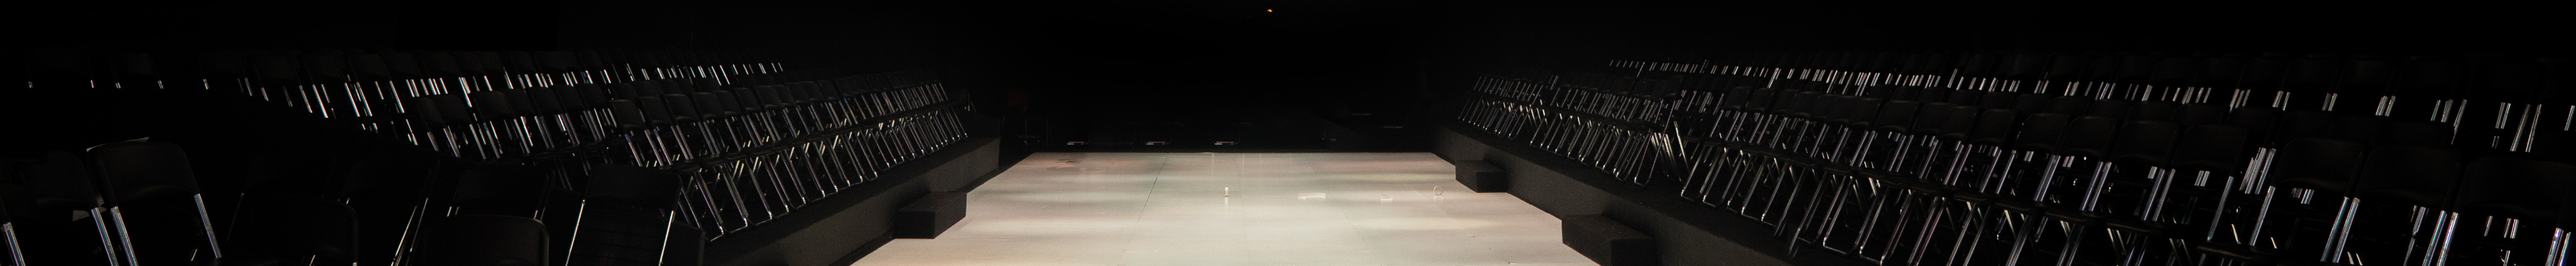
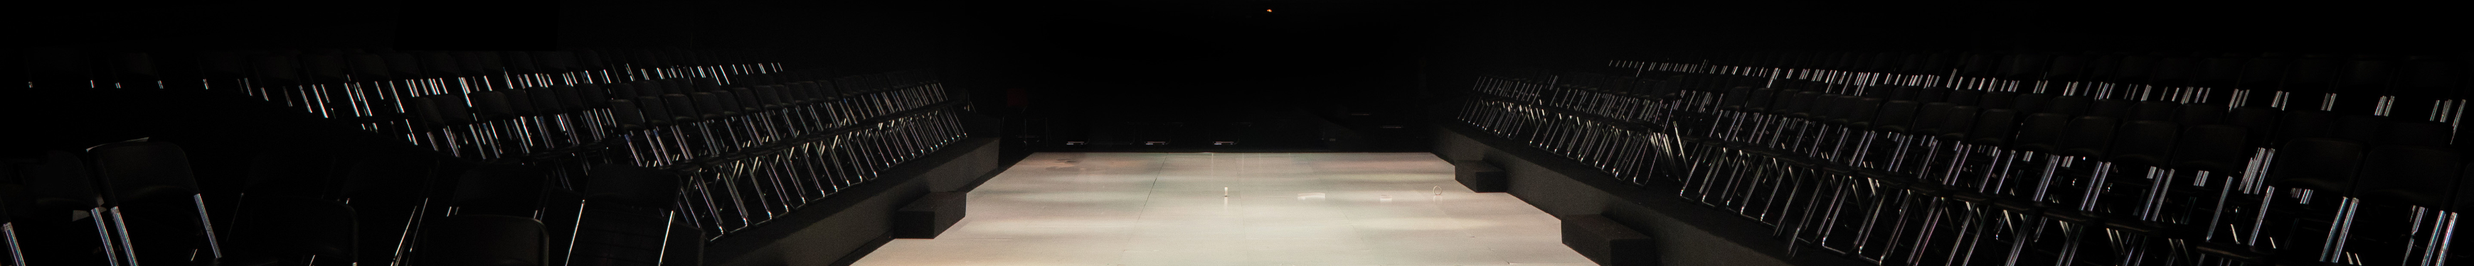
Update feedback emma

diff --git a/index.html b/index.html
@@ -31,7 +31,7 @@
   <div class="home">
     <header class="header">
       <div class="navbar">
-        <div class="logo"><a href="#"><img src="assets/image/logo/logoDoorzichtichtig.png" alt="logo"
+        <div class="logo"><a href="#"><img src="assets/image/logo/logowit.png" alt="logo"
               class="logoimg"></a></div>
 
         <ul class="navContent">
@@ -82,7 +82,7 @@
     <!-- Our services -->
     <div class="service">
       <div class="serviceHeading">
-        <h2>Our Services</h2>
+        <h2>OUR SERVICES</h2>
         <h3>From event concepts to interactive experiences, we've got you covered!</h3>
       </div>
 
@@ -122,75 +122,13 @@
         </div>
       </div>
     </div>
+
     <!-- Testimonials -->
-    <!-- <div class="testimonial">
-      <div class="testimonialHeading">
-        <h2>ClIENTS WHO TRUST US</h2>
-      </div>
-      <div class="quote1">
-        <div class="quotation">
-          <div class="quotetekst">
-            <p> I have worked with both Angelique and Emma multiple times and can highly recommend them.
-              They are both extremely professional.
-              Planning even the most complicated event is perfectly orchestrated with a lot of attention to detail.
-              I like to raise the bar for my events every year and surprise the audience with new and different ways to
-              approach engagement and content delivery.
-              Thanks to the creativity of the Elique team, we have been able to do just that and delight attendees with
-              truly memorable and impactful experiences.
-              I am looking forward to working with them again in the future.</p>
-          </div>
-        </div>
-      </div>
+    <div class="testimonials">
+      <div class="divider"><hr></div>
 
-      <div class="quote2">
-        <div class="quotation">
-          <div class="quotetekst">
-            <p>Very strong strategic partner, very proactive and very well organised. <br />
-              We have multiplied by 5 the number of attendees since 2019 and they have been instrumental. <br />
-              Would recommend 100%.</p>
-          </div>
-        </div>
-      </div>
-
-      <div class="quote3">
-        <div class="quotation">
-          <div class="quotetekst">
-            <p>Full of energy, knowledge and passion for events.
-              Extremely reliable professional, will not rest until things get done.
-              incredible and a valuable asset for any team. </p>
-          </div>
-        </div>
-      </div>
-
-      <div class="quote4">
-        <div class="quotation">
-          <div class="quotetekst">
-            <p>What I appreciate most is the attention to detail, focus on attendee experience, and availability of the
-              team.
-              They take the time to understand the intended audience to bring creativity to each event, customizing it
-              for the audience.
-              They go above and beyond to ensure a positive experience for everyone!</p>
-          </div>
-        </div>
-      </div>
-
-      <div class="quote5">
-        <div class="quotation">
-          <div class="quotetekst">
-            <p>They were phenomenal!
-              From coordination end-to-end logistics to creating the best experience for attendees, they handled
-              everything seamlessly.
-              Their attention to detais and professionalism made the event a huge success.
-              I highly recommend them for any event!</p>
-          </div>
-        </div>
-      </div>
-    </div>			 -->
-
-    <div class="temp">
-      <div><h2>Testimonials</h2></div>
-      
-
+      <div class="testimonialsHeading"><h2>TESTIMONIALS</h2></div>
+    
       <div id="slider">
         <input type="radio" name="slider" id="slide1" checked>
         <input type="radio" name="slider" id="slide2">
@@ -278,10 +216,8 @@
       </div>
 
       <div class="contactUsHeading">
-        <h2>
-          Let's work together <br>
-          CONTACT US!
-        </h2>
+        <h3>Let's work together</h3>
+        <h2>CONTACT US!</h2>
       </div>
 
       <div class="contactUsContainer">
@@ -301,6 +237,26 @@
           </div>
         </div>
       </div>
+    </div>
+
+
+    <!--  -->
+    <div class="footerpage">
+      <div class="container">
+        <footer class="d-flex flex-wrap justify-content-between align-items-center py-3 my-4 border-top text-white">
+            <div class="col-md-4 d-flex align-items-center">
+                <a href="/" class="mb-3 me-2 mb-md-0 text-decoration-none lh-1 text-white">
+                    <svg class="bi" width="30" height="24"><use xlink:href="#bootstrap" class="text-white"></use></svg>
+                </a>
+                <span class="mb-3 mb-md-0">© 2024 Elique-Events</span>
+            </div>
+    
+            <ul class="nav col-md-4 justify-content-end list-unstyled d-flex">
+                <li class="ms-3 footericon"><i class="fa-brands fa-linkedin"></i></li>
+            </ul>
+        </footer>
+    </div>
+    
     </div>
   </main>
   

diff --git a/style.css b/style.css
@@ -4,7 +4,7 @@
     padding: 0;
     box-sizing: border-box;
     color: white;
-    font-family: 'Poppins', sans-serif;
+    font-family: 'Montserrat Classic', sans-serif;
     font-weight: 500;
 }
 
@@ -136,7 +136,8 @@ header {
 
 .homeContent h1{
     font-size: 4rem;
-    margin-bottom: 1rem;
+    margin-bottom: 3%;
+    font-weight: bold;
 }
 
 .homeContent h2{
@@ -180,6 +181,7 @@ header {
     font-size: 2rem;
     margin: 0;
     text-align: center;
+    font-weight: bold;
 }
 
 .experienceContainer{
@@ -227,7 +229,7 @@ header {
     justify-content: flex-start;
     align-items: center;
     height: auto;
-    min-height: 90vh;
+    min-height: 85vh;
     position: relative;
     background-image: url('assets/image/main/background-middle.png');
     background-size: cover;
@@ -259,6 +261,7 @@ header {
 
 .serviceHeading h2{
     font-size: 3rem;
+    font-weight: bold;
 }
 
 .serviceContainer {
@@ -312,84 +315,7 @@ header {
 }
 
 /* Testimonials */
-.testimonial {
-    height: 50vh;
-    background-color: #020302;
-    position: relative;
-}
-
-.testimonialHeading {
-    text-align: center;
-    position: absolute;
-    top: 15%; 
-    left: 5%; 
-}
-
-.testimonialHeading h2{
-    font-size: 2.5rem;
-}
-
-.quote1 {
-    position: absolute;
-    top: 40%;
-    left: 5%;
-}
-
-.quote1 .quotetekst{
-    width: 500px;
-}
-
-.quote2 {
-    position: absolute;
-    top: 5%;
-    left: 40%; 
-}
-
-.quote3 {
-    position: absolute;
-    top: 55%;
-    left: 45%; 
-}
-
-.quote4 {
-    position: absolute;
-    top: 55%;
-    left: 70%; 
-}
-
-.quote4 .quotetekst{
-    width: 350px;
-}
-
-.quote5 {
-    position: absolute;
-    top: 7%;
-    left: 67%; 
-}
-
-.quotation {
-    position: relative;
-    width: 150px;
-    height: 150px; 
-
-    background-image: url('assets/image/pagina4/quote.png');
-    background-size: cover;
-    background-position: top left; 
-}
-
-.quotetekst {
-    position: absolute;
-    width: 300px;
-    top: 32%;
-    left: 25%;
-    text-align: left;
-}
-
-.quotetekst p{
-    font-size: 0.8em;
-}
-
-.temp{
+.testimonials{
     height: 50vh;
 
     display: flex;
@@ -398,12 +324,31 @@ header {
     align-items: center;
 
     background-color: #020302;
-    gap 20px
+    gap: 20px;
 }
+
+.testimonialsHeading h2{
+    font-size: 3rem;
+    margin: 0;
+    text-align: center;
+    font-weight: bold;
+}
+
+.divider { 
+    text-align: center; 
+    width: 30%;
+  } 
+
+.divider hr { 
+    border: none; 
+    height: 1px; 
+    background-color: white; 
+    margin: 20px 0; 
+  } 
 
 #slider {
     margin: 0 auto;
-    width: 800px;
+    width: 65%;
     max-width: 100%;
     text-align: center;
  }
@@ -416,7 +361,6 @@ header {
  }
  #slides {
     padding: 10px;
-    /* border: 3px solid #ccc; */
     background: #020302;
     position: relative;
     z-index: 1;
@@ -535,8 +479,8 @@ header {
 }
 
 .aboutUsHeading h2{
-
     font-size: 3rem;
+    font-weight: bold;
 }
 
 .aboutUsBackground{
@@ -572,8 +516,13 @@ header {
     width: 100%;
 }
 
+.contactUsHeading h3{
+    text-align: center;
+    font-size: 2.5rem;
+    margin: 0;
+}
+
 .contactUsHeading h2{
-    padding-top: 2%;
     font-size: 3rem;
     text-align: center;
     font-weight: bold;
@@ -587,12 +536,12 @@ header {
     display: flex;
     justify-content: center;
     align-items: center;
-    gap: 20px;
+    gap: 10%;
 }
 
 .contactImage{
     height: 30vh;
-    width: 30vh;
+    width: 40vh;
 
     background-image: url('assets/image/pagina6/founders.png');
     background-position: center;
@@ -611,10 +560,6 @@ header {
     width: 80%;
 }
 
-.contactInfo div{
-    margin-bottom: 5%;
-}
-
 .contact h5{
     margin: 0;
 }
@@ -622,6 +567,20 @@ header {
 .contact p{
     margin: 0;
 } 
+
+/* Footer */
+.footerpage{
+    height: 20vh;
+    background-color: #6c6b72;
+
+    display: flex;
+    justify-content: end;
+    align-items: center;
+}
+
+.footericon{
+    font-size: 1.5em;
+}
 
 /* Responsive design */
 @media(max-width: 1024px) {

diff --git a/index.js b/index.js
@@ -26,5 +26,5 @@ document.addEventListener('DOMContentLoaded', function() {
         
         // Stel de 'checked' status in op de nieuwe huidige slide
         slides[currentSlide].checked = true;
-    }, 3000); // Verander elke 3000 milliseconden (3 seconden) van slide
+    }, 10000); // Verander elke 3000 milliseconden (3 seconden) van slide
 });
